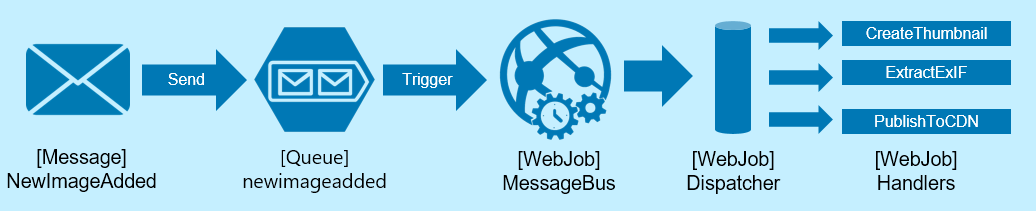
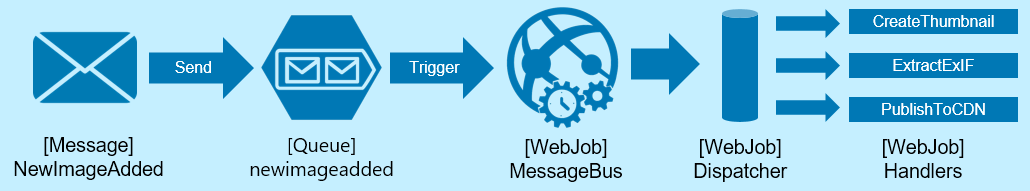
Updated readme with image

diff --git a/README.md b/README.md
@@ -59,6 +59,11 @@ The solution is based on two main components:
 - WebJob application (`WebJob.MessageBus` project)
 - Message Dispatcher (`WebJob.MessageBus.Dispatcher` project)
 
+It assumes that Azure Storage Queues is the messeging mechanism. Below is an illustration on how the components work togehter:
+
+![Architecture Overivew](https://raw.githubusercontent.com/lowendahl/WebJob-MessageBus/master/WebJobasMessageBus.png)
+
+
 ####WebJob.MessageBus
 This is a standard Console application that register a WebJob `JobHost`. It configures the host using 
     a custom 'TypeLocator' that uses the `CodeDomProvider` to dynamically compile a Functions class
